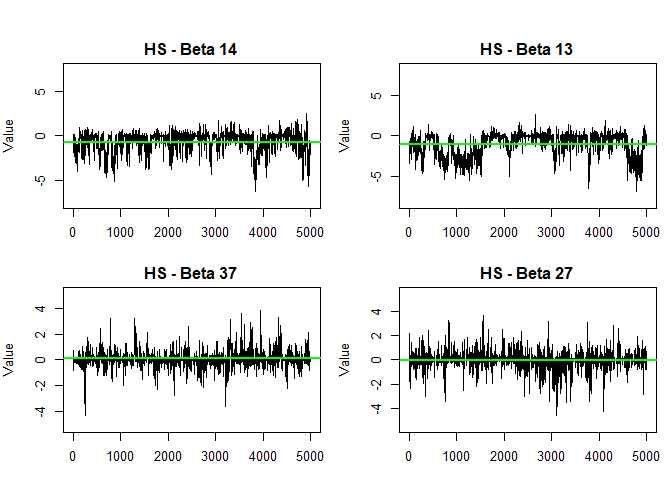
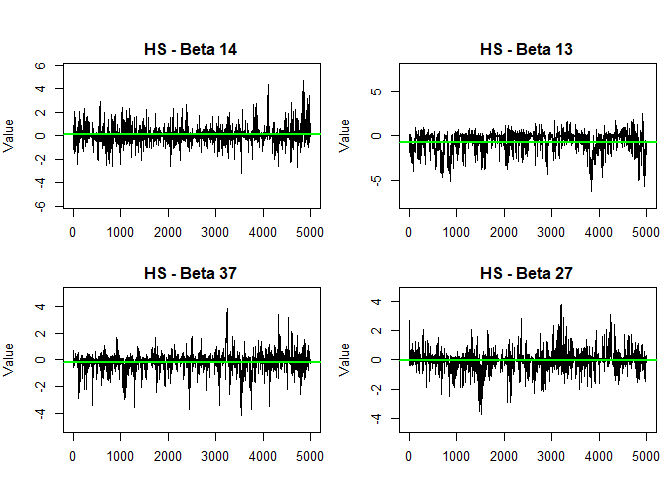
readme update

diff --git a/README.md b/README.md
@@ -239,7 +239,7 @@ $\times p$. We randomly select four betas and plot their convergence.
 ``` r
 set.seed(2025)
 
-ran_sam <- sample(2:p_dim, 4)
+ran_sam <- sample(2:p_dim, 4)   
 
 titles <- c(
   paste0("HS - Beta ", ran_sam)
@@ -249,7 +249,7 @@ titles <- c(
 par(mfrow = c(2, 2), mar = c(3, 4, 2, 1), oma = c(0, 0, 2, 0))
 for (i in seq_along(ran_sam)) {
   grassNB::MCMC_plot(
-    HS_group_offset_space$Beta[, ran_sam[i]],
+    HS_group_offset_space$Beta[, (ran_sam[i])+1],  # +1 to account for intercept in col 1
     main = titles[i]
   )
 }
